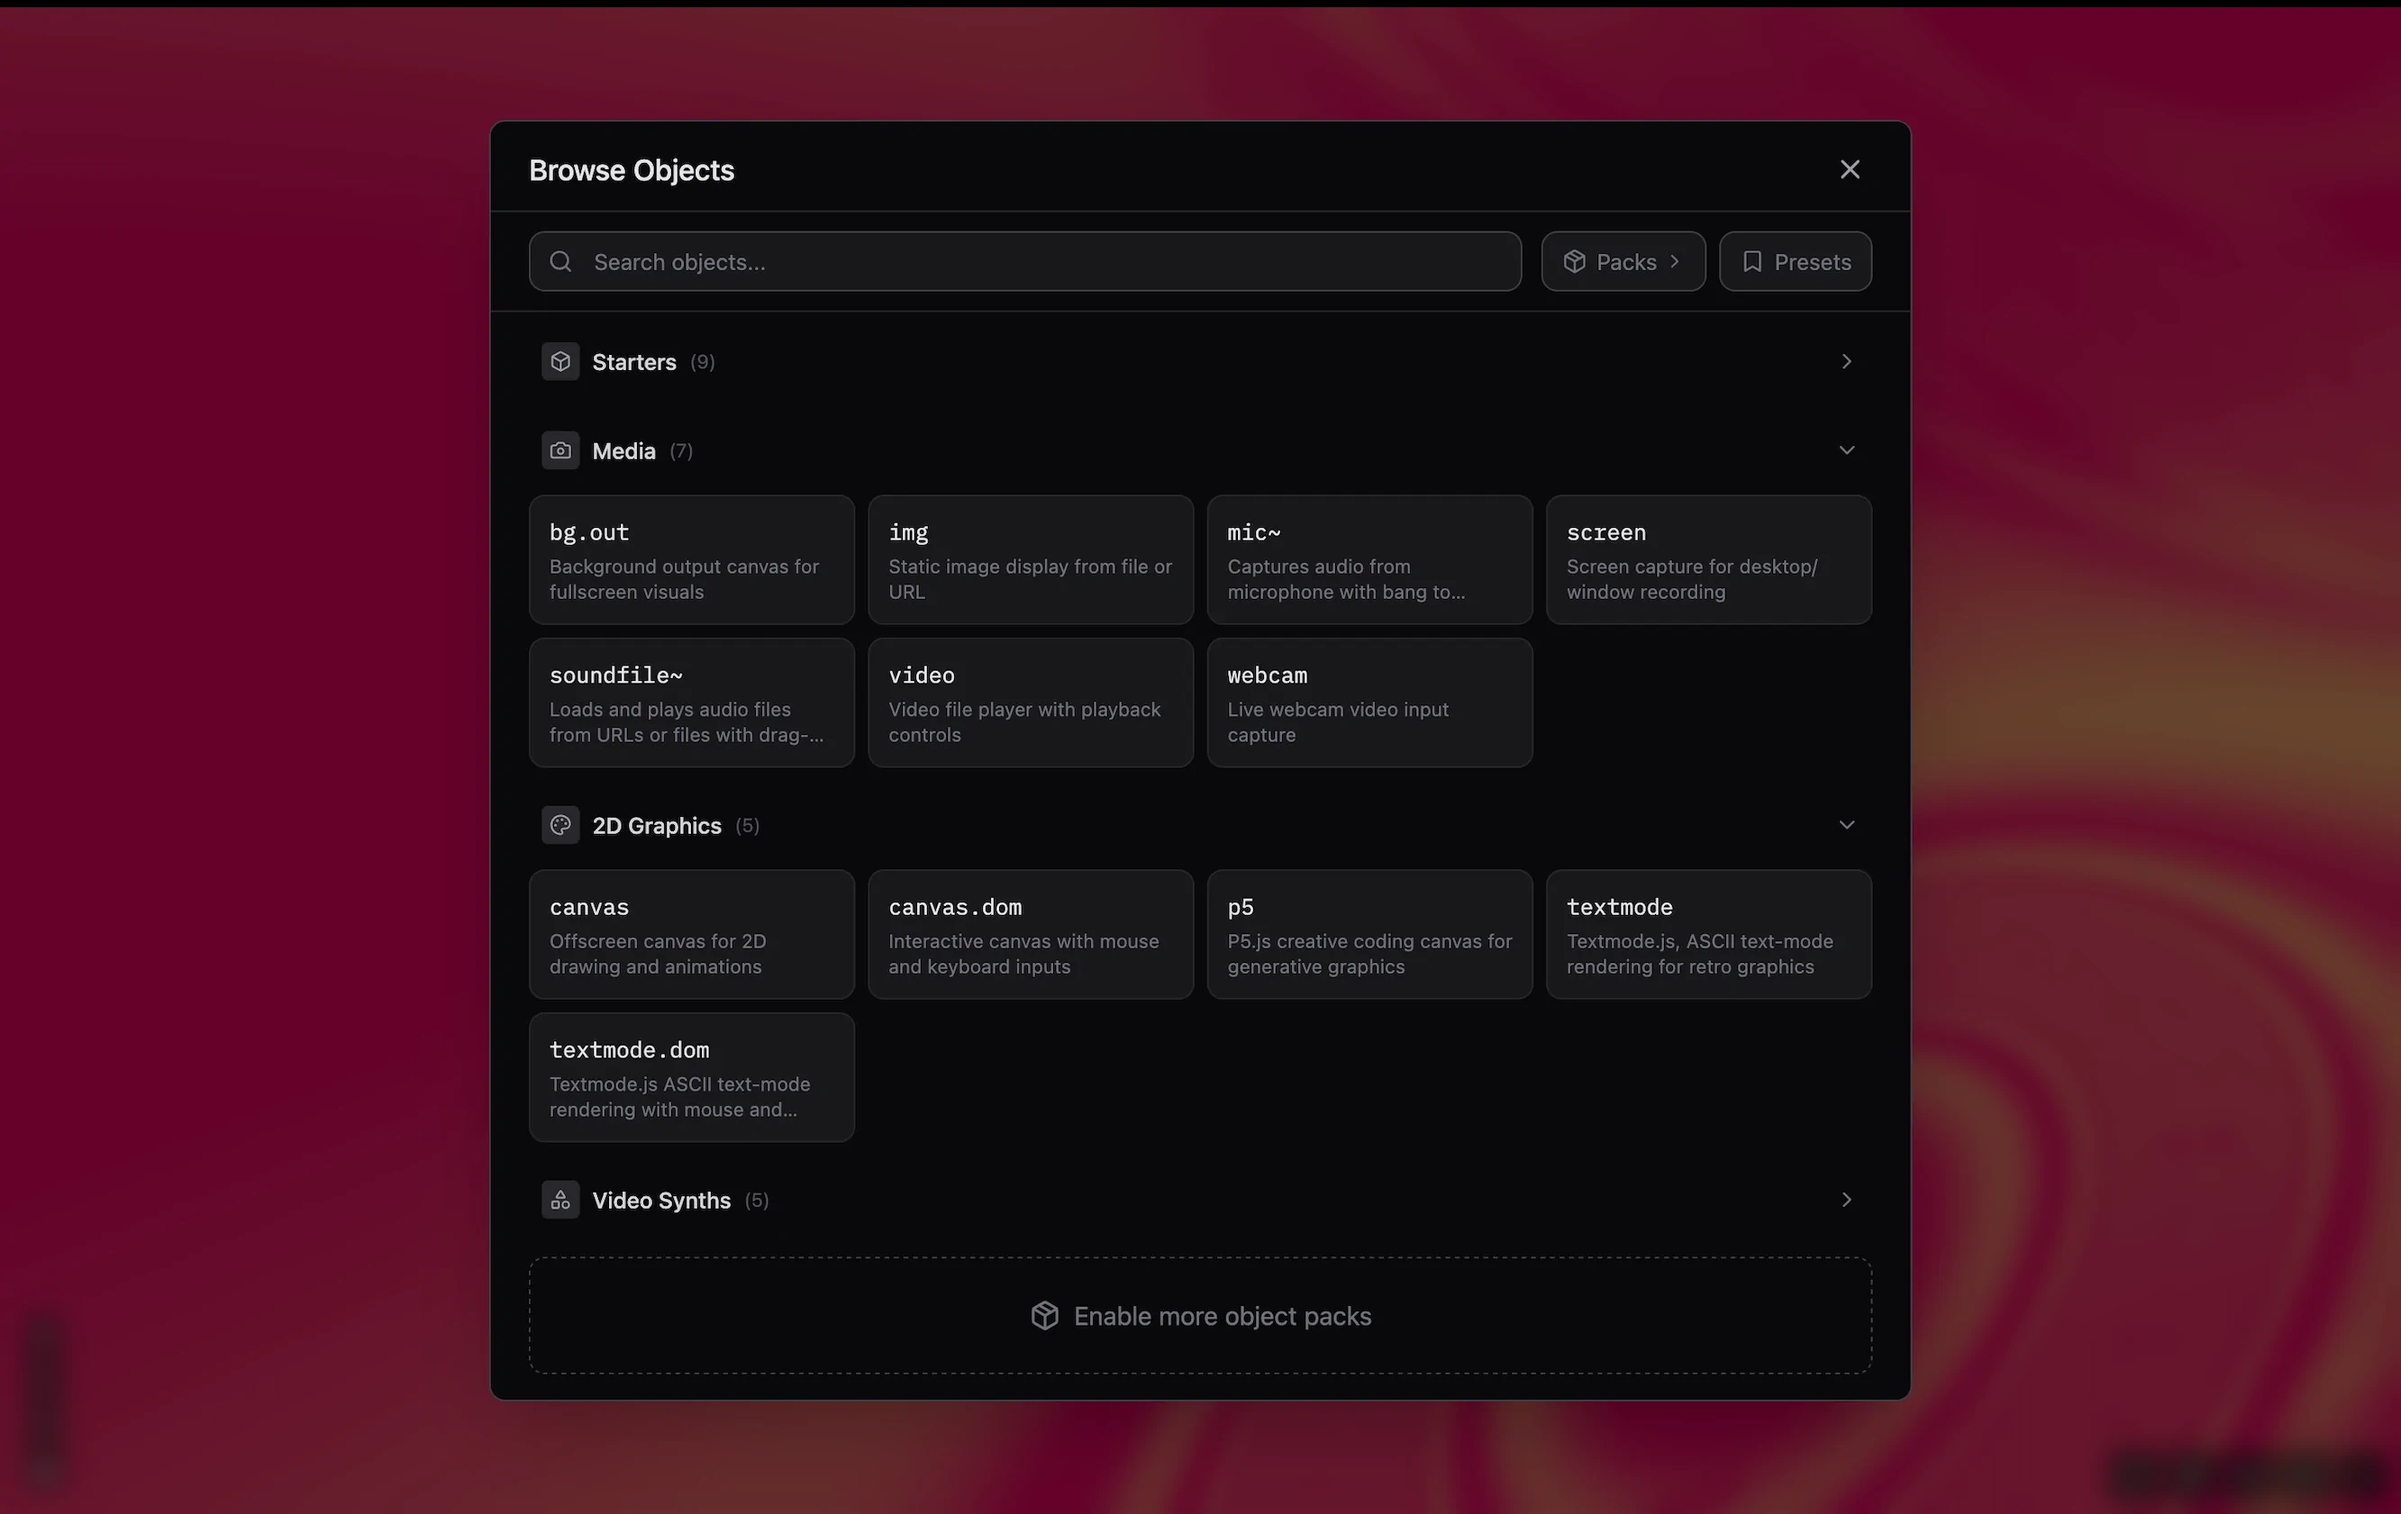
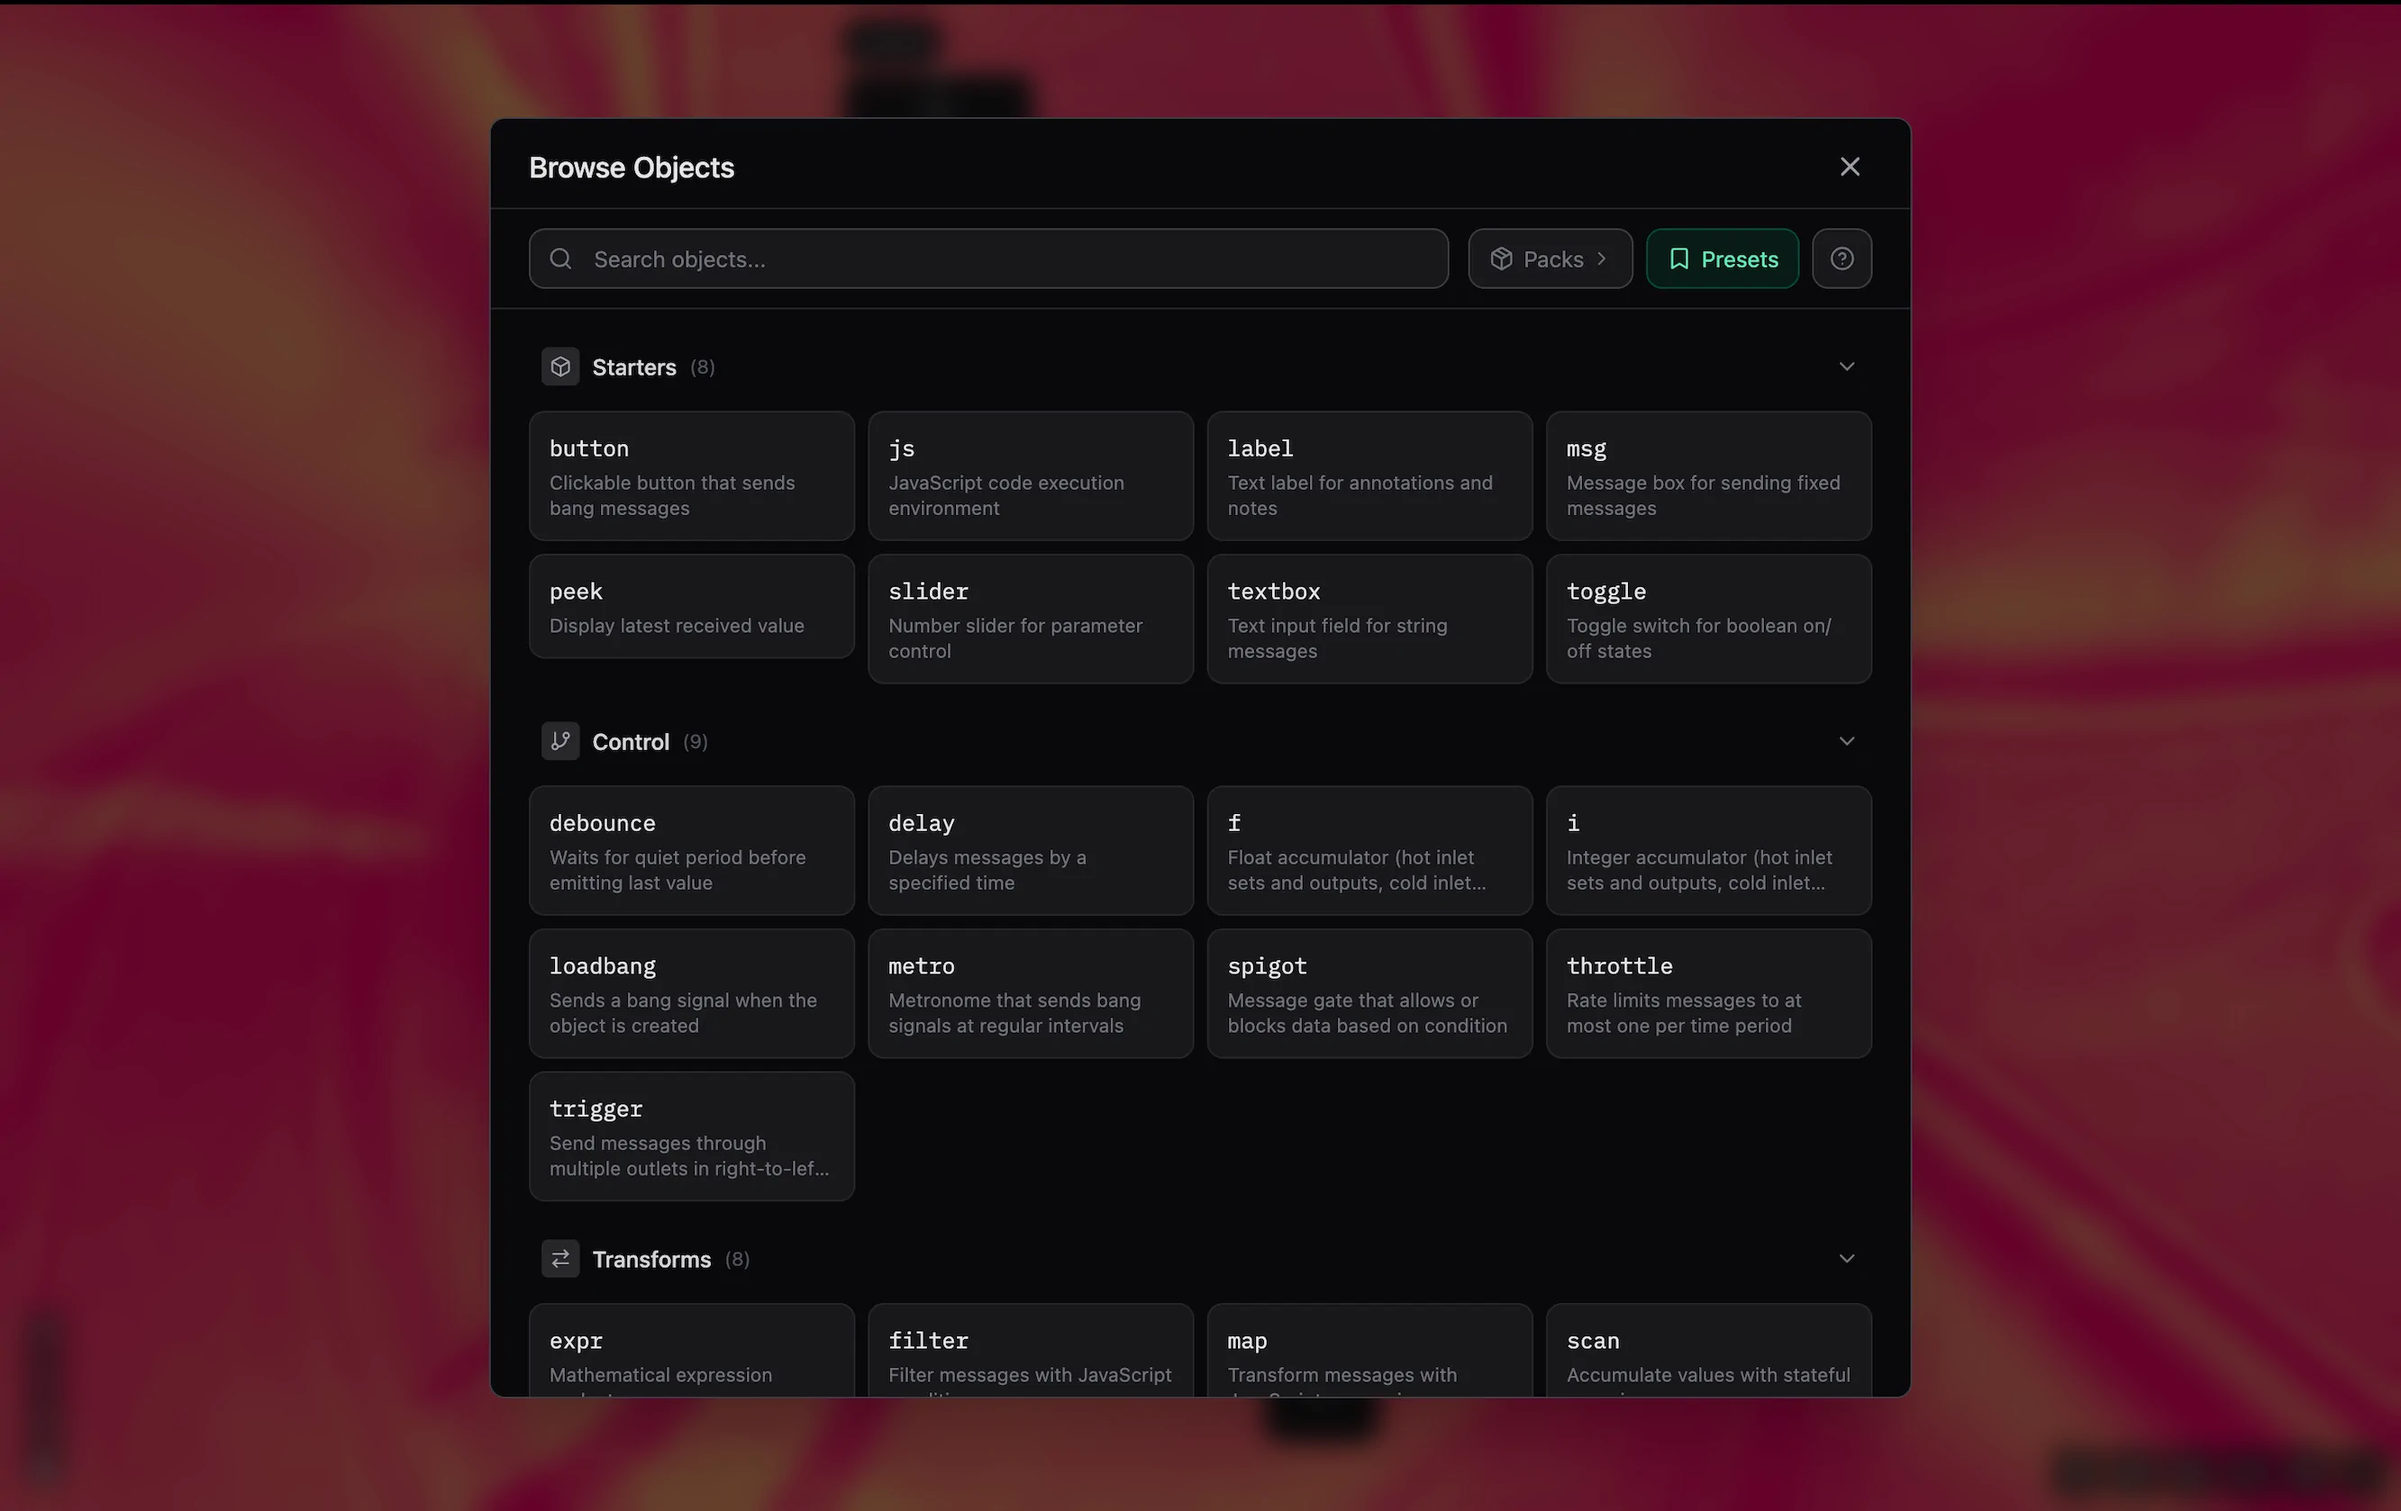
docs: update object browser and in-app help mode

diff --git a/ui/src/routes/docs/docs-nav.ts b/ui/src/routes/docs/docs-nav.ts
@@ -4,7 +4,7 @@ export const categoryOrder = [
   'Connections',
   'Audio & Video',
   'Scripting',
-  'Sidebar Features',
+  'Sidebar',
   'Other'
 ];
 
@@ -19,13 +19,7 @@ export const topicOrder: Record<string, string[]> = {
   Connections: ['connecting-objects', 'message-passing', 'hot-cold-inlets'],
   'Audio & Video': ['audio-chaining', 'video-chaining', 'audio-reactivity', 'connection-rules'],
   Scripting: ['javascript-runner', 'canvas-interaction'],
-  'Sidebar Features': [
-    'manage-saves',
-    'manage-presets',
-    'manage-files',
-    'manage-packs',
-    'in-app-help'
-  ],
+  Sidebar: ['manage-saves', 'manage-presets', 'manage-files', 'manage-packs', 'in-app-help'],
   Other: [
     'sharing-links',
     'offline-usage',

diff --git a/ui/static/content/topics/in-app-help.md b/ui/static/content/topics/in-app-help.md
@@ -21,10 +21,11 @@ The Help panel in the sidebar provides quick reference for any object in your pa
 
 Some objects have interactive help patches that demonstrate usage. Click **Open Help Patch** to load an example you can play with.
 
-## Quick Access
+## Object Browser Help
 
-- Right-click any object and select **Help** from the context menu
-- In the Object Browser, click the **?** icon on any object card
+![Object browser help modal](/content/images/object-browser-help.webp)
+
+Enable the **?** help toggle to browse object documentation in the sidebar instead of inserting.
 
 ## See Also
 

diff --git a/ui/static/content/topics/adding-objects.md b/ui/static/content/topics/adding-objects.md
@@ -20,7 +20,6 @@ There are two ways to add objects to your canvas: quick add and the object brows
 - Objects and presets are grouped by [packs](/docs/manage-packs), with searchable names and descriptions
 - Click to insert an object or preset — pick one at random and see what it can do!
 - If you search for disabled objects, a suggestion to enable relevant packs will appear
-- `Help` button opens the in-app object references in the sidebar for the clicked object.
 
 ## Presets
 
